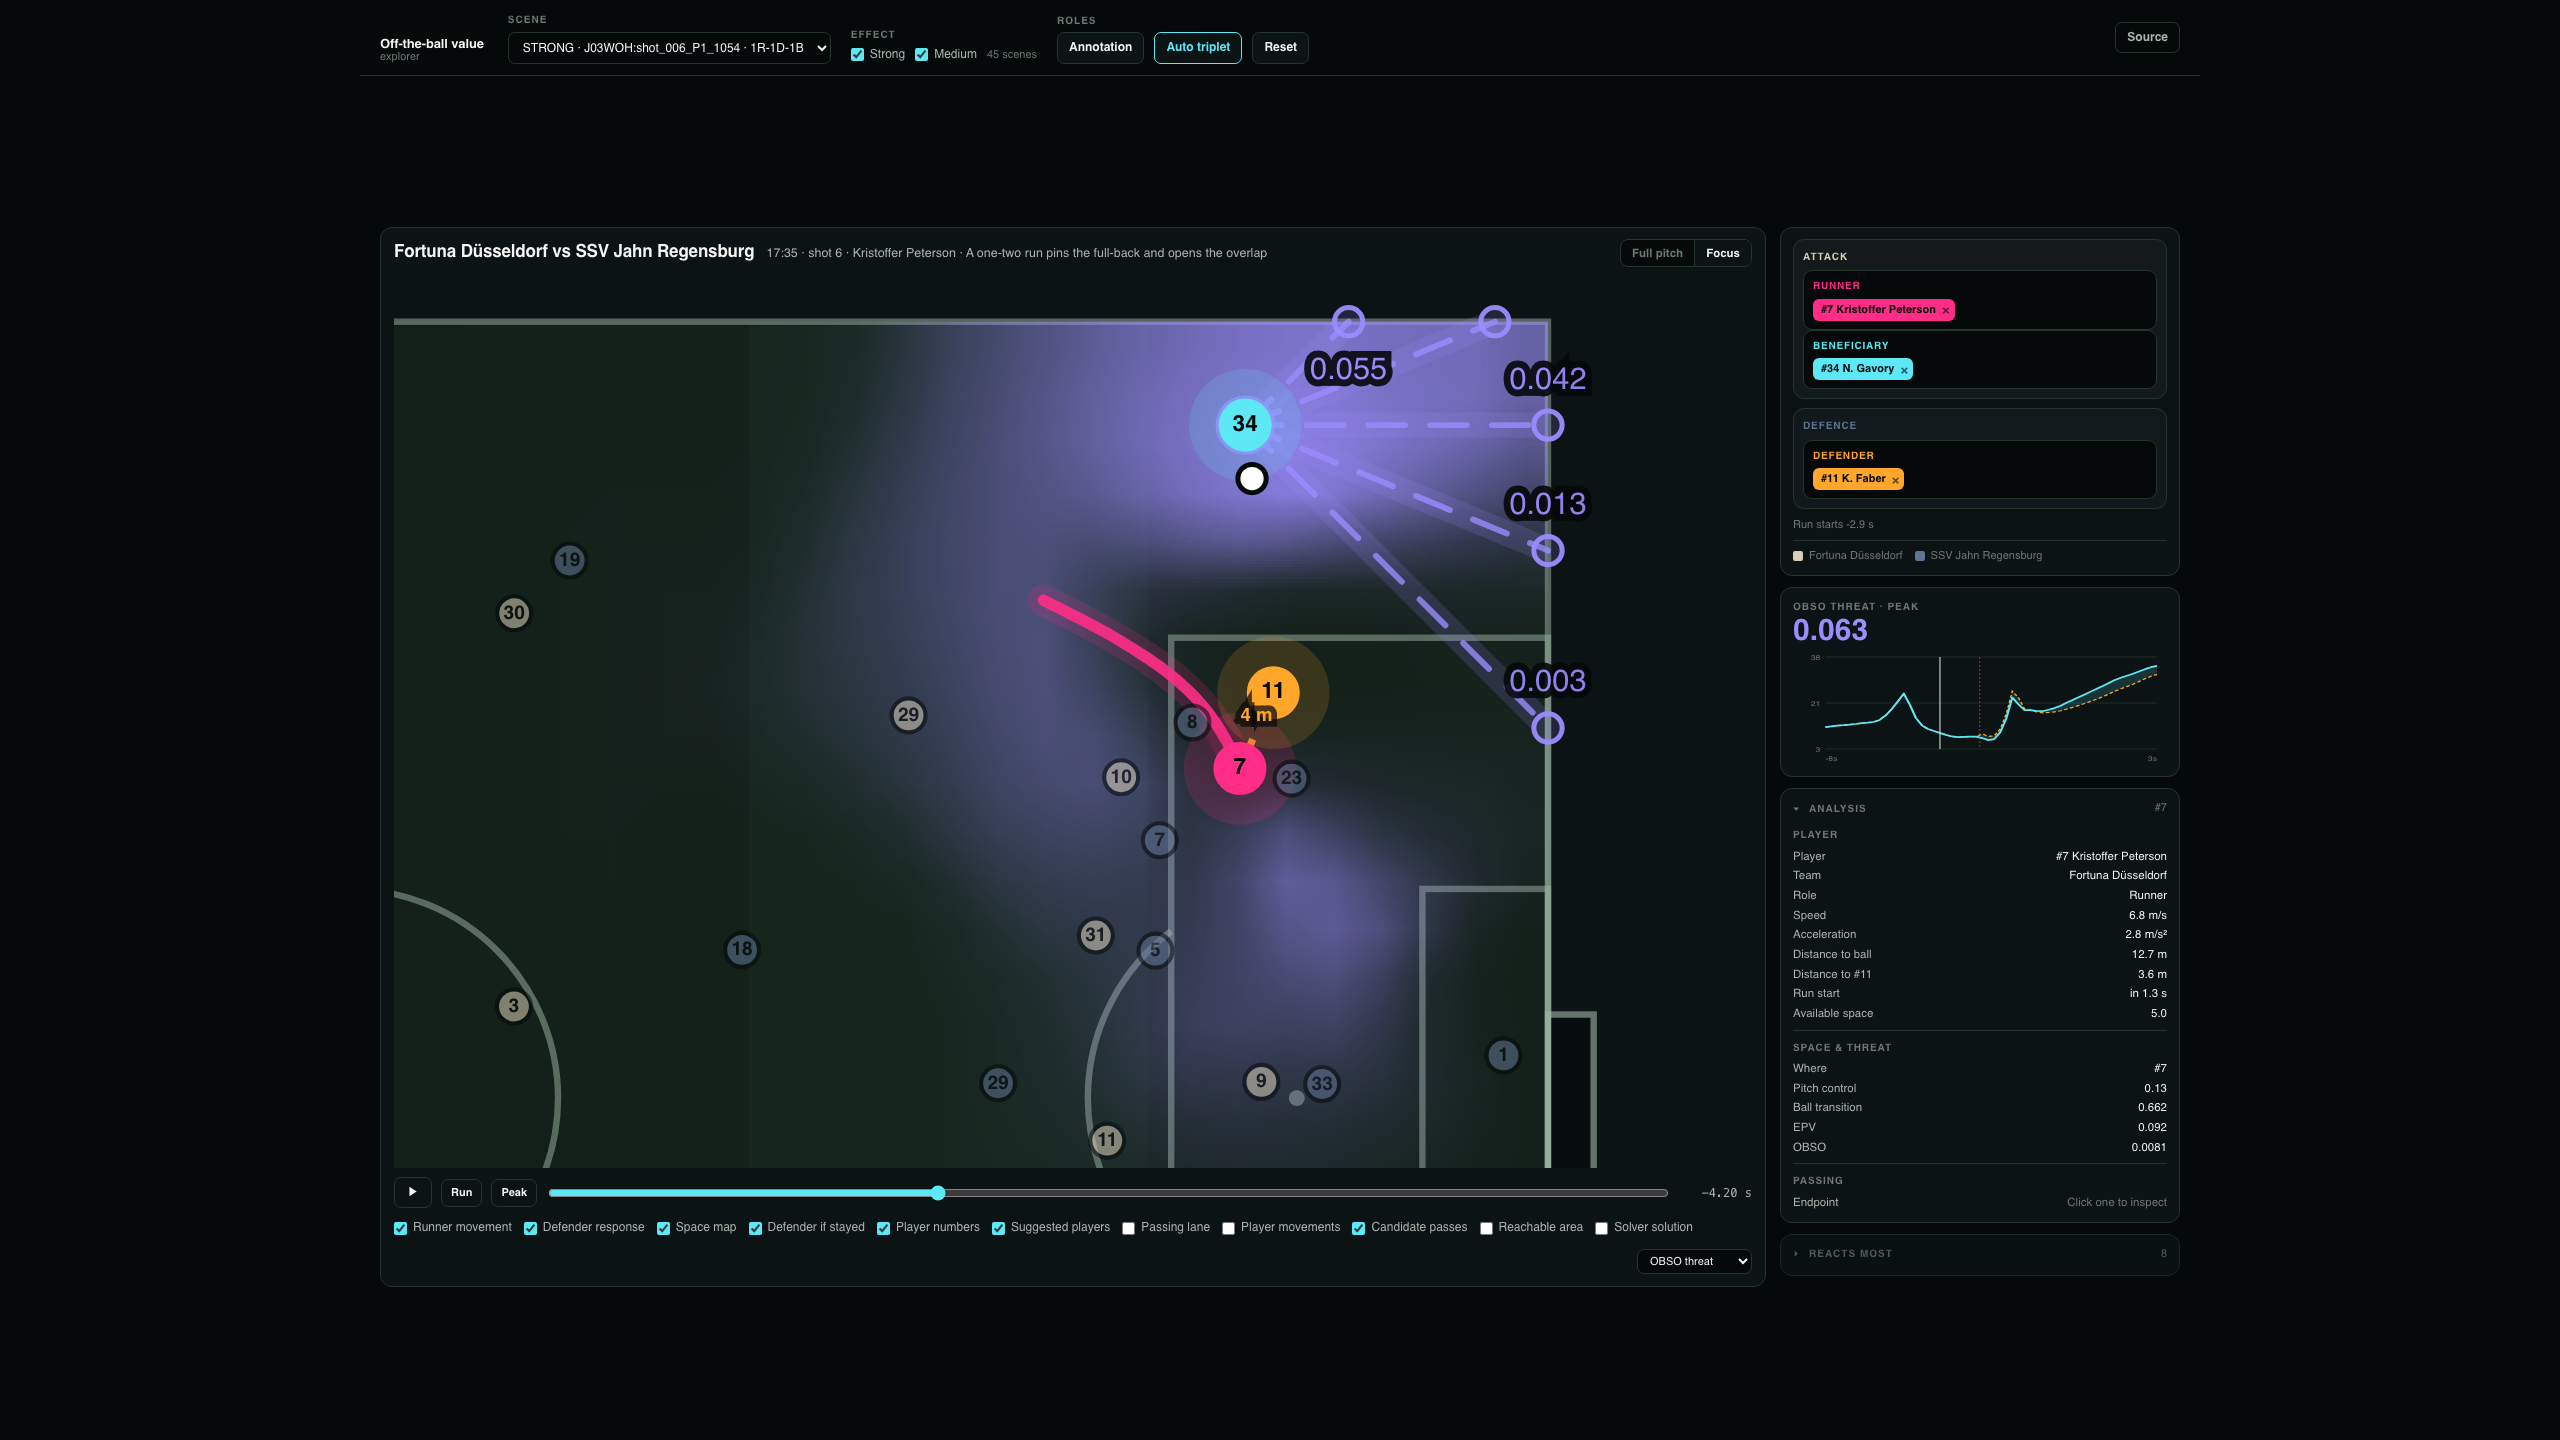
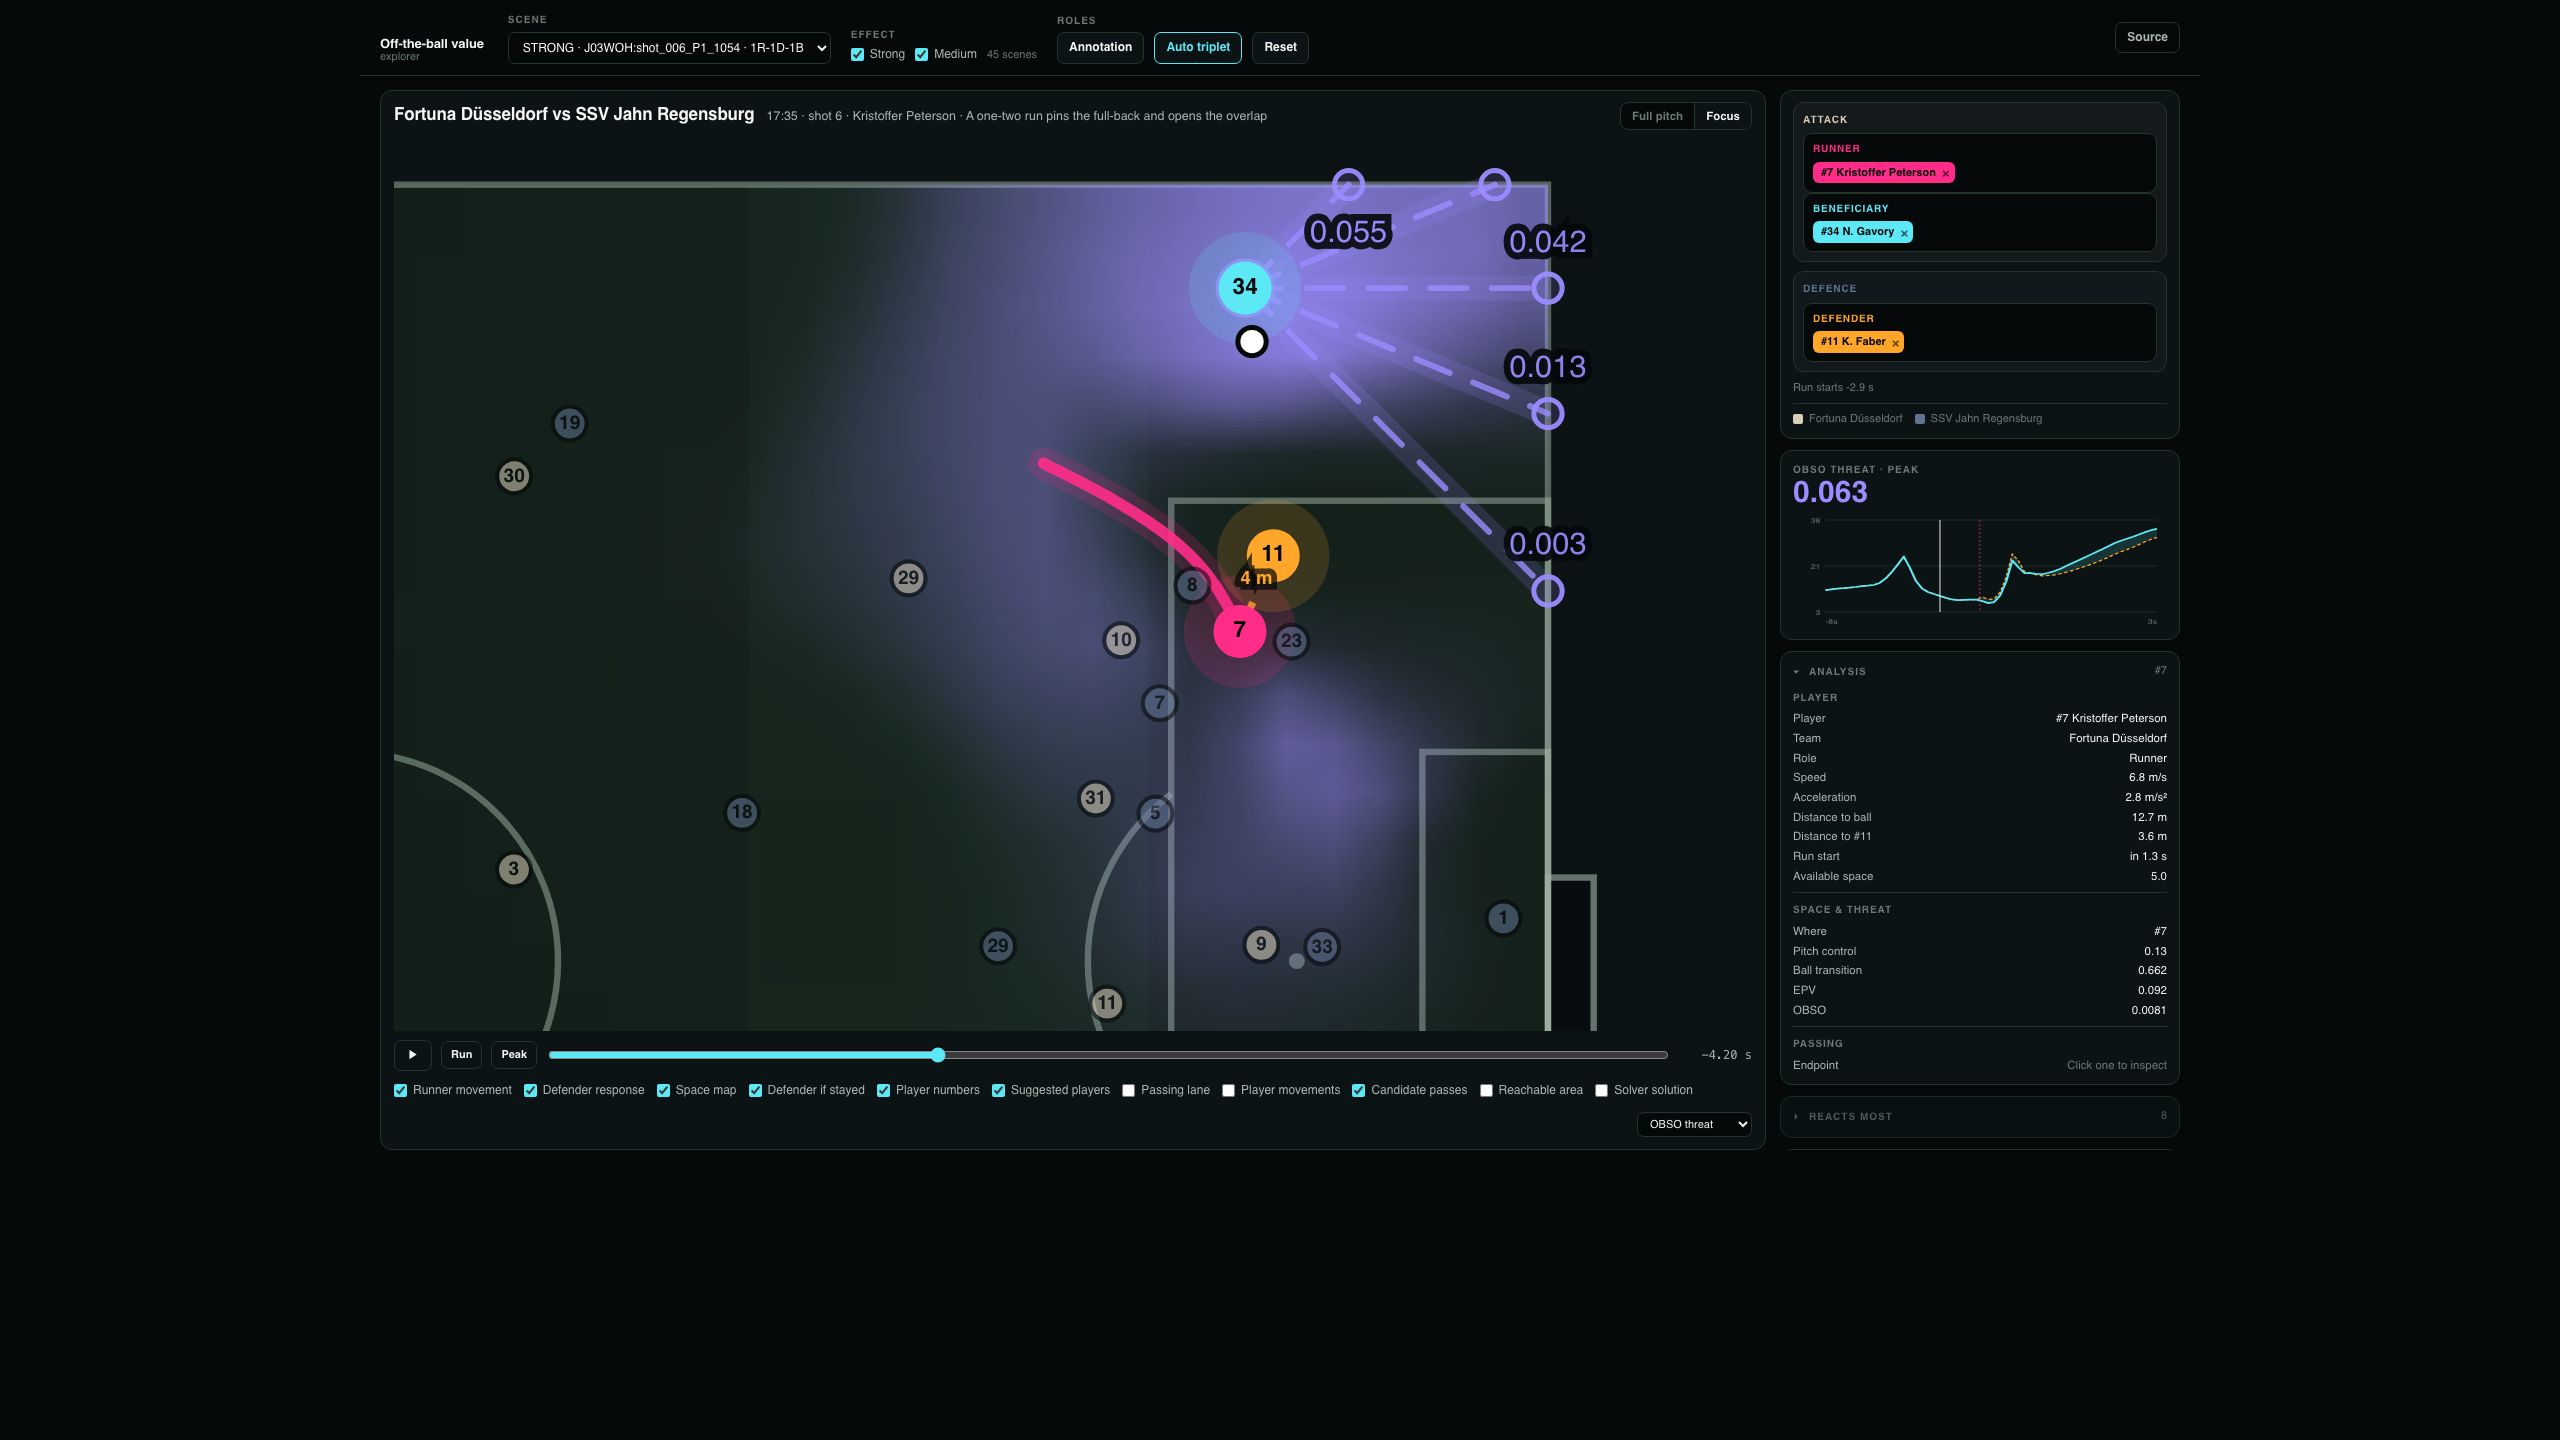
demo: top-align the app so a 1440p screen has no dead band above the pitch
The layout centred itself vertically when the viewport was taller than the
1090 px cap, which put a 120 px gap between the header and the pitch on a
1440p screen and read as a rendering fault rather than as margin. It now sits
under the header and the slack falls below, where it looks like padding.

1080p is unchanged: there the content already fills the height.

Submission screenshots re-exported at both sizes.

diff --git a/demo_viz/web/site/style.css b/demo_viz/web/site/style.css
@@ -94,7 +94,9 @@ main {
   /* The pitch is aspect-locked, so beyond this the card only grows letterbox.
      1080p is unaffected; a 1440p screen stops stretching. */
   max-height: 1090px;
-  margin-block: auto;      /* centre the app when the screen is taller than it needs */
+  /* Sit under the header rather than floating in the middle of a tall screen:
+     centring left a dead band above the pitch at 1440p. */
+  margin-block: 0 auto;
 }
 .pitch-card {
   flex: 1 1 auto; min-width: 0; display: flex; flex-direction: column; gap: 9px;
